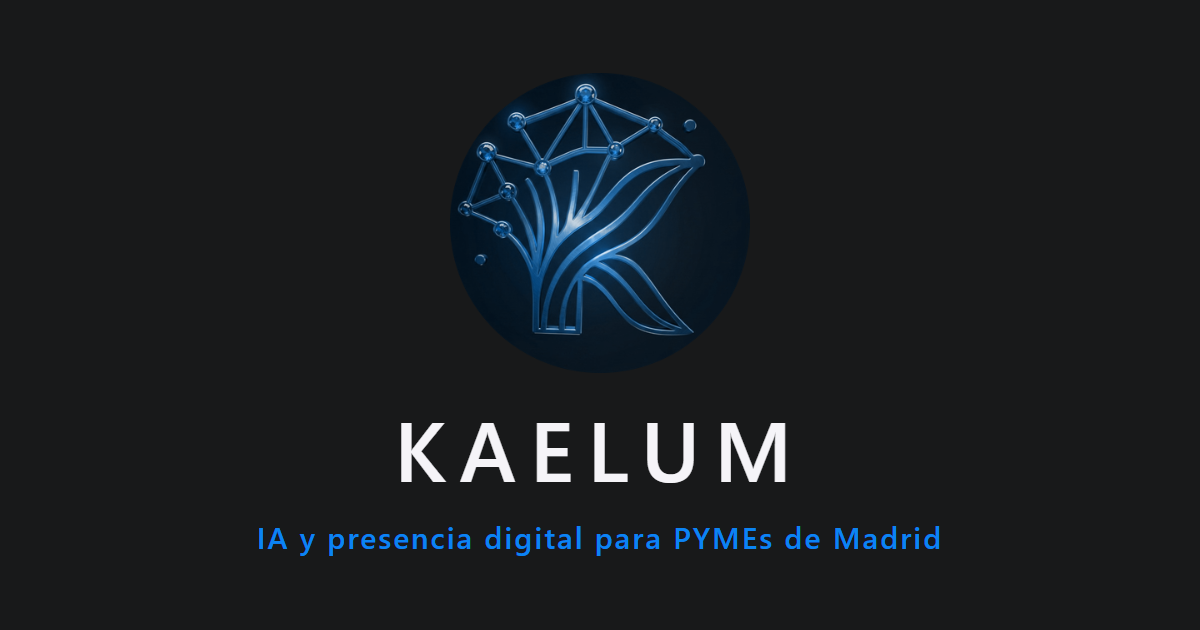
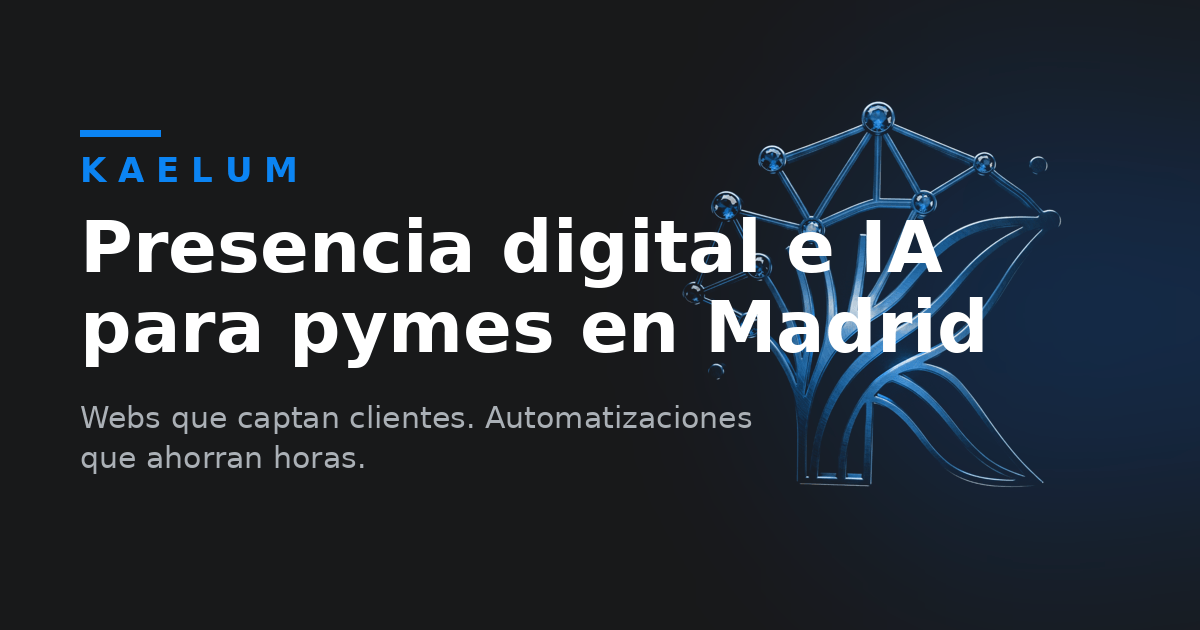
feat: nueva imagen Open Graph al compartir
- Nueva og-kaelum.png (1200x630) optimizada de 165 KB a 70 KB sin pérdida visible
  (PNG a todo color, no WebP, para que la muestren todas las redes).
- og:image y twitter:image apuntando a ella con URL ABSOLUTA
  (https://kaelum.es/assets/img/og-kaelum.png) en las 10 páginas.
- twitter:image añadido donde faltaba (no existía en ninguna página).
- twitter:card = summary_large_image en todas (vista grande).
- Bump del parámetro de versión a ?v=13 para forzar el re-scrape de las redes.
- Retirada la imagen fuente con nombre temporal ("Logo para lo de whatsapp.png").
  (No quedan referencias a la OG morada antigua.)

diff --git a/web/404.html b/web/404.html
@@ -12,8 +12,9 @@
   <meta property="og:title" content="Página no encontrada — Kaelum">
   <meta property="og:description" content="La página que buscas no existe o se ha movido.">
   <meta property="og:url" content="https://kaelum.es/404/">
-  <meta property="og:image" content="https://kaelum.es/assets/img/og-kaelum.png?v=8">
+  <meta property="og:image" content="https://kaelum.es/assets/img/og-kaelum.png?v=13">
   <meta name="twitter:card" content="summary_large_image">
+  <meta name="twitter:image" content="https://kaelum.es/assets/img/og-kaelum.png?v=13">
 
 <link rel="icon" href="/assets/img/favicon.ico?v=8" sizes="any">
 <link rel="icon" type="image/png" sizes="32x32" href="/assets/img/favicon-32.png?v=8">

diff --git a/web/blog/index.html b/web/blog/index.html
@@ -12,8 +12,9 @@
   <meta property="og:title" content="Blog — IA, automatización y presencia digital | Kaelum">
   <meta property="og:description" content="Próximamente: artículos prácticos sobre inteligencia artificial, automatización y presencia digital para PYMEs y comercio local.">
   <meta property="og:url" content="https://kaelum.es/blog/">
-  <meta property="og:image" content="https://kaelum.es/assets/img/og-kaelum.png?v=8">
+  <meta property="og:image" content="https://kaelum.es/assets/img/og-kaelum.png?v=13">
   <meta name="twitter:card" content="summary_large_image">
+  <meta name="twitter:image" content="https://kaelum.es/assets/img/og-kaelum.png?v=13">
 
 <link rel="icon" href="/assets/img/favicon.ico?v=8" sizes="any">
 <link rel="icon" type="image/png" sizes="32x32" href="/assets/img/favicon-32.png?v=8">

diff --git a/web/casos-de-exito/index.html b/web/casos-de-exito/index.html
@@ -11,8 +11,9 @@
 <meta property="og:title" content="Casos de éxito | Kaelum">
 <meta property="og:description" content="Casos reales de PYMEs que mejoran su presencia digital y automatizan procesos con Kaelum. Pronto publicaremos nuestros primeros casos de estudio verificables.">
 <meta property="og:url" content="https://kaelum.es/casos-de-exito/">
-<meta property="og:image" content="https://kaelum.es/assets/img/og-kaelum.png?v=8">
+<meta property="og:image" content="https://kaelum.es/assets/img/og-kaelum.png?v=13">
 <meta name="twitter:card" content="summary_large_image">
+<meta name="twitter:image" content="https://kaelum.es/assets/img/og-kaelum.png?v=13">
 <meta name="theme-color" content="#18191A">
 <link rel="icon" href="/assets/img/favicon.ico?v=8" sizes="any">
 <link rel="icon" type="image/png" sizes="32x32" href="/assets/img/favicon-32.png?v=8">

diff --git a/web/contacto/index.html b/web/contacto/index.html
@@ -11,8 +11,9 @@
 <meta property="og:title" content="Contacto — Solicita tu diagnóstico gratuito | Kaelum">
 <meta property="og:description" content="Solicita tu diagnóstico gratuito de presencia digital e IA. Escríbenos desde el formulario o a [email redacted]. Estamos en Madrid.">
 <meta property="og:url" content="https://kaelum.es/contacto/">
-<meta property="og:image" content="https://kaelum.es/assets/img/og-kaelum.png?v=8">
+<meta property="og:image" content="https://kaelum.es/assets/img/og-kaelum.png?v=13">
 <meta name="twitter:card" content="summary_large_image">
+<meta name="twitter:image" content="https://kaelum.es/assets/img/og-kaelum.png?v=13">
 <meta name="theme-color" content="#18191A">
 <link rel="icon" href="/assets/img/favicon.ico?v=8" sizes="any">
 <link rel="icon" type="image/png" sizes="32x32" href="/assets/img/favicon-32.png?v=8">

diff --git a/web/index.html b/web/index.html
@@ -12,8 +12,9 @@
 <meta property="og:title" content="Kaelum — Presencia digital e IA para PYMEs de Madrid">
 <meta property="og:description" content="Presencia digital profesional e IA aplicada para PYMEs y comercio local de Madrid. Diagnóstico gratuito.">
 <meta property="og:url" content="https://kaelum.es/">
-<meta property="og:image" content="https://kaelum.es/assets/img/og-kaelum.png?v=8">
+<meta property="og:image" content="https://kaelum.es/assets/img/og-kaelum.png?v=13">
 <meta name="twitter:card" content="summary_large_image">
+<meta name="twitter:image" content="https://kaelum.es/assets/img/og-kaelum.png?v=13">
 <meta name="theme-color" content="#18191A">
 <link rel="icon" href="/assets/img/favicon.ico?v=8" sizes="any">
 <link rel="icon" type="image/png" sizes="32x32" href="/assets/img/favicon-32.png?v=8">

diff --git a/web/privacidad/index.html b/web/privacidad/index.html
@@ -12,8 +12,9 @@
 <meta property="og:title" content="Política de Privacidad | Kaelum">
 <meta property="og:description" content="Cómo trata Kaelum los datos del formulario de contacto: finalidad, base legal, conservación y derechos.">
 <meta property="og:url" content="https://kaelum.es/privacidad/">
-<meta property="og:image" content="https://kaelum.es/assets/img/og-kaelum.png?v=8">
+<meta property="og:image" content="https://kaelum.es/assets/img/og-kaelum.png?v=13">
 <meta name="twitter:card" content="summary_large_image">
+<meta name="twitter:image" content="https://kaelum.es/assets/img/og-kaelum.png?v=13">
 <meta name="theme-color" content="#18191A">
 <link rel="icon" href="/assets/img/favicon.ico?v=8" sizes="any">
 <link rel="icon" type="image/png" sizes="32x32" href="/assets/img/favicon-32.png?v=8">

diff --git a/web/servicios/implementacion-ia/index.html b/web/servicios/implementacion-ia/index.html
@@ -11,8 +11,9 @@
 <meta property="og:title" content="Implementación de IA para PYMEs — Agentes y n8n | Kaelum">
 <meta property="og:description" content="IA aplicada con casos concretos: agentes 24/7, automatizaciones con n8n, procesamiento documental y cualificación de leads. Diagnóstico de IA por ROI para PYMEs de Madrid.">
 <meta property="og:url" content="https://kaelum.es/servicios/implementacion-ia/">
-<meta property="og:image" content="https://kaelum.es/assets/img/og-kaelum.png?v=8">
+<meta property="og:image" content="https://kaelum.es/assets/img/og-kaelum.png?v=13">
 <meta name="twitter:card" content="summary_large_image">
+<meta name="twitter:image" content="https://kaelum.es/assets/img/og-kaelum.png?v=13">
 <meta name="theme-color" content="#18191A">
 <link rel="icon" href="/assets/img/favicon.ico?v=8" sizes="any">
 <link rel="icon" type="image/png" sizes="32x32" href="/assets/img/favicon-32.png?v=8">

diff --git a/web/servicios/index.html b/web/servicios/index.html
@@ -12,8 +12,9 @@
   <meta property="og:title" content="Servicios — Presencia digital e IA para PYMEs | Kaelum">
   <meta property="og:description" content="Dos servicios para hacer crecer tu PYME: presencia digital (web, SEO local, reservas) e implementación de IA (agentes, automatizaciones n8n). Compáralos y elige, o combínalos. Diagnóstico gratuito.">
   <meta property="og:url" content="https://kaelum.es/servicios/">
-  <meta property="og:image" content="https://kaelum.es/assets/img/og-kaelum.png?v=8">
+  <meta property="og:image" content="https://kaelum.es/assets/img/og-kaelum.png?v=13">
   <meta name="twitter:card" content="summary_large_image">
+  <meta name="twitter:image" content="https://kaelum.es/assets/img/og-kaelum.png?v=13">
 
 <link rel="icon" href="/assets/img/favicon.ico?v=8" sizes="any">
 <link rel="icon" type="image/png" sizes="32x32" href="/assets/img/favicon-32.png?v=8">

diff --git a/web/servicios/presencia-digital/index.html b/web/servicios/presencia-digital/index.html
@@ -11,8 +11,9 @@
 <meta property="og:title" content="Presencia digital para PYMEs — Web, SEO local y reservas | Kaelum">
 <meta property="og:description" content="Rediseño web, Google Business, reservas con Cal.com, WhatsApp Business, SEO local y automatizaciones. Sistema completo de presencia digital para PYMEs de Madrid. Diagnóstico gratuito.">
 <meta property="og:url" content="https://kaelum.es/servicios/presencia-digital/">
-<meta property="og:image" content="https://kaelum.es/assets/img/og-kaelum.png?v=8">
+<meta property="og:image" content="https://kaelum.es/assets/img/og-kaelum.png?v=13">
 <meta name="twitter:card" content="summary_large_image">
+<meta name="twitter:image" content="https://kaelum.es/assets/img/og-kaelum.png?v=13">
 <meta name="theme-color" content="#18191A">
 <link rel="icon" href="/assets/img/favicon.ico?v=8" sizes="any">
 <link rel="icon" type="image/png" sizes="32x32" href="/assets/img/favicon-32.png?v=8">

diff --git a/web/sobre-nosotros/index.html b/web/sobre-nosotros/index.html
@@ -11,8 +11,9 @@
 <meta property="og:title" content="Sobre nosotros — Jaime y Rodrigo, fundadores de Kaelum">
 <meta property="og:description" content="Jaime Millán y Rodrigo López, cofundadores de KAELUM. Ponemos la IA y la presencia digital de las grandes empresas al alcance de las PYMEs de Madrid. Con honestidad.">
 <meta property="og:url" content="https://kaelum.es/sobre-nosotros/">
-<meta property="og:image" content="https://kaelum.es/assets/img/og-kaelum.png?v=8">
+<meta property="og:image" content="https://kaelum.es/assets/img/og-kaelum.png?v=13">
 <meta name="twitter:card" content="summary_large_image">
+<meta name="twitter:image" content="https://kaelum.es/assets/img/og-kaelum.png?v=13">
 <meta name="theme-color" content="#18191A">
 <link rel="icon" href="/assets/img/favicon.ico?v=8" sizes="any">
 <link rel="icon" type="image/png" sizes="32x32" href="/assets/img/favicon-32.png?v=8">